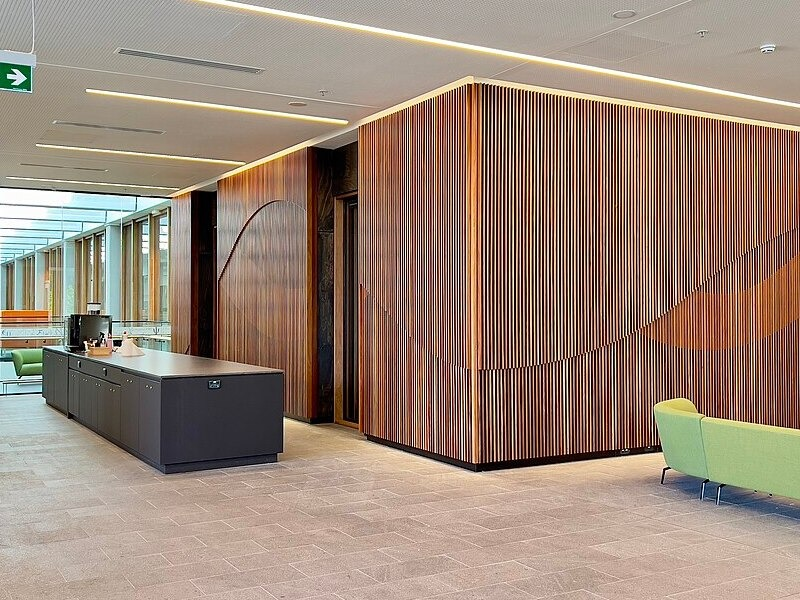
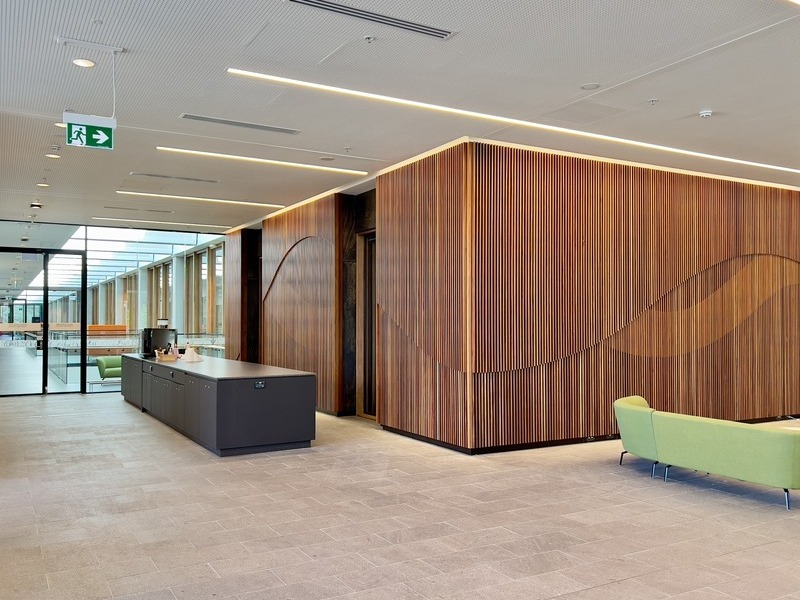
changed venue images

diff --git a/index.html b/index.html
@@ -693,8 +693,8 @@
 
           <div class="col-lg-3 col-md-4">
             <div class="venue-gallery">
-              <a href="assets/img/venue-gallery/new-physics-building-front-board.jpg" class="glightbox" data-gall="venue-gallery">
-                <img src="assets/img/venue-gallery/new-physics-building-front-board.jpg" alt="" class="img-fluid">
+              <a href="assets/img/venue-gallery/Research_School_of_Physics,_ANU,_Canberra,_2022,_05.jpg" class="glightbox" data-gall="venue-gallery">
+                <img src="assets/img/venue-gallery/Research_School_of_Physics,_ANU,_Canberra,_2022,_05.jpg" alt="" class="img-fluid">
               </a>
             </div>
           </div>
